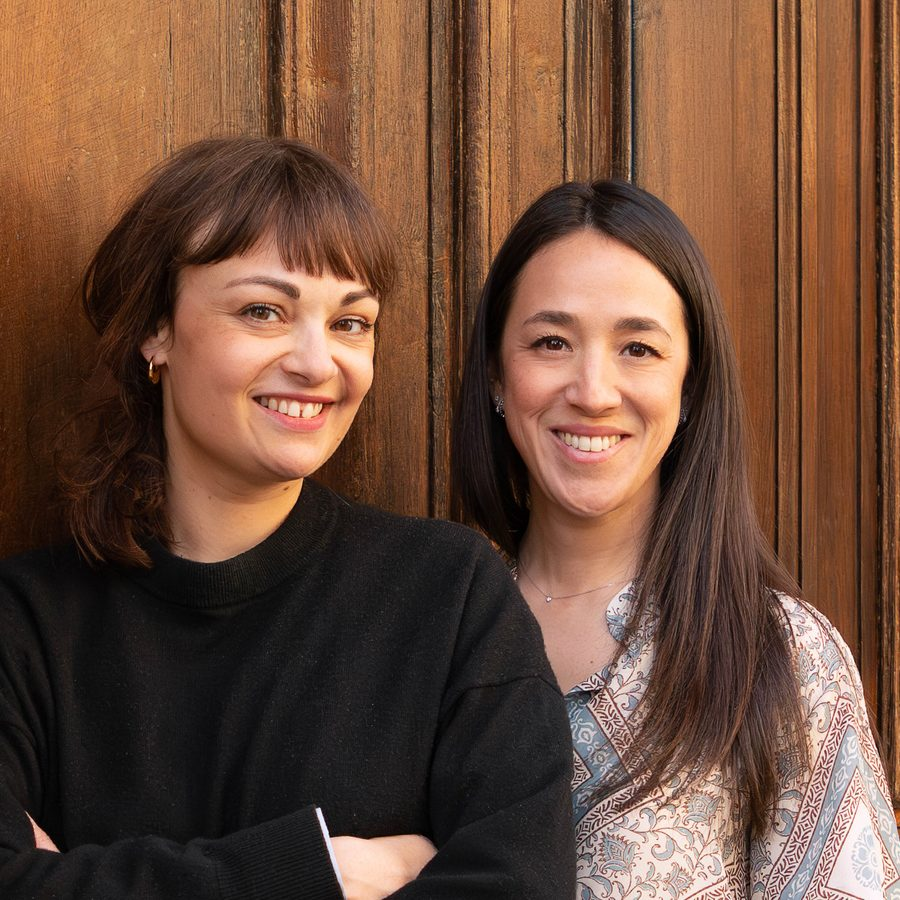
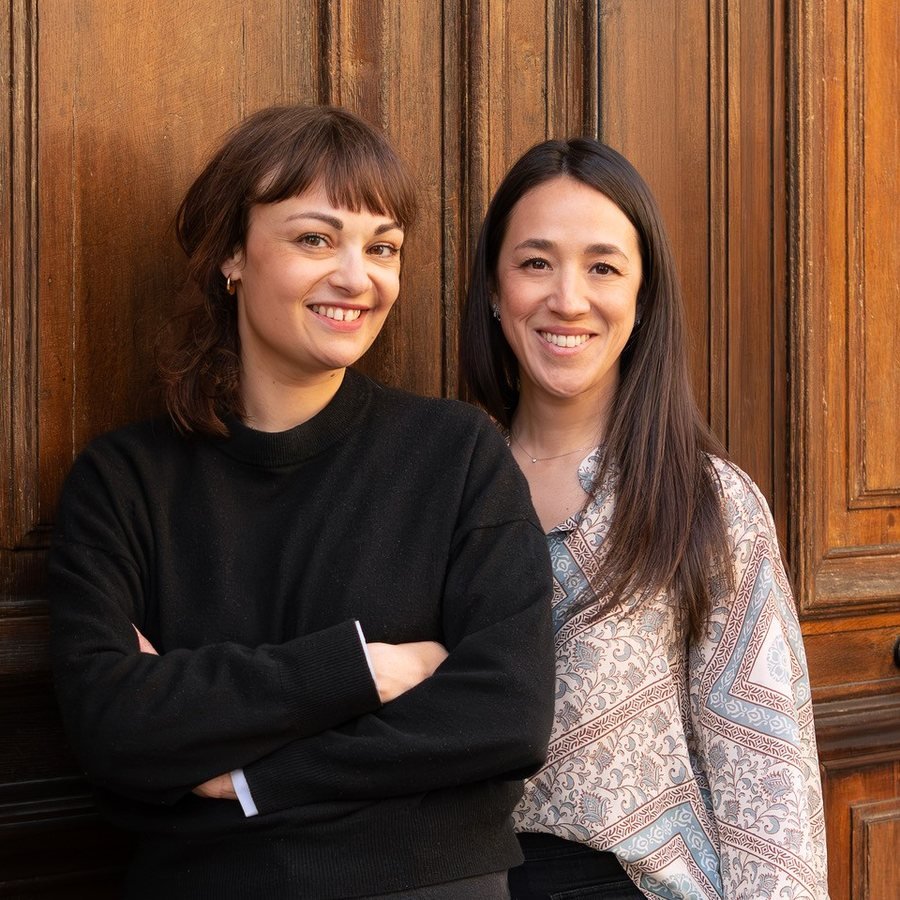
Nouvelles photos : équipe et portraits individuels de Judith et Jade
Claude-Session: https://claude.ai/code/session_01DYLPSCNmZ2g9XJuZJn8xyV

diff --git a/index.html b/index.html
@@ -200,8 +200,8 @@
         <picture>
           <source media="(max-width: 699px)" type="image/webp" srcset="assets/img/equipe-carre-900.webp">
           <source media="(max-width: 699px)" srcset="assets/img/equipe-carre-900.jpg">
-          <source type="image/webp" srcset="assets/img/equipe-900.webp 900w, assets/img/equipe-1600.webp 1600w" sizes="100vw">
-          <img src="assets/img/equipe-1600.jpg" srcset="assets/img/equipe-900.jpg 900w, assets/img/equipe-1600.jpg 1600w" sizes="100vw" width="1600" height="1199" loading="lazy" decoding="async" alt="Judith Caillot et Jade Tellini, les deux avocates associées du cabinet JUNO">
+          <source type="image/webp" srcset="assets/img/equipe-900.webp 900w, assets/img/equipe-1280.webp 1280w" sizes="100vw">
+          <img src="assets/img/equipe-1280.jpg" srcset="assets/img/equipe-900.jpg 900w, assets/img/equipe-1280.jpg 1280w" sizes="100vw" width="1280" height="960" loading="lazy" decoding="async" alt="Judith Caillot et Jade Tellini, les deux avocates associées du cabinet JUNO">
         </picture>
         <svg class="who who-wide" viewBox="0 0 400 300" aria-hidden="true">
           <path class="arrow" pathLength="1" d="M82 36C114 30 132 42 140 62"/><path class="head" pathLength="1" d="M131.1 55.8 140 62l2.3-10.6"/>
